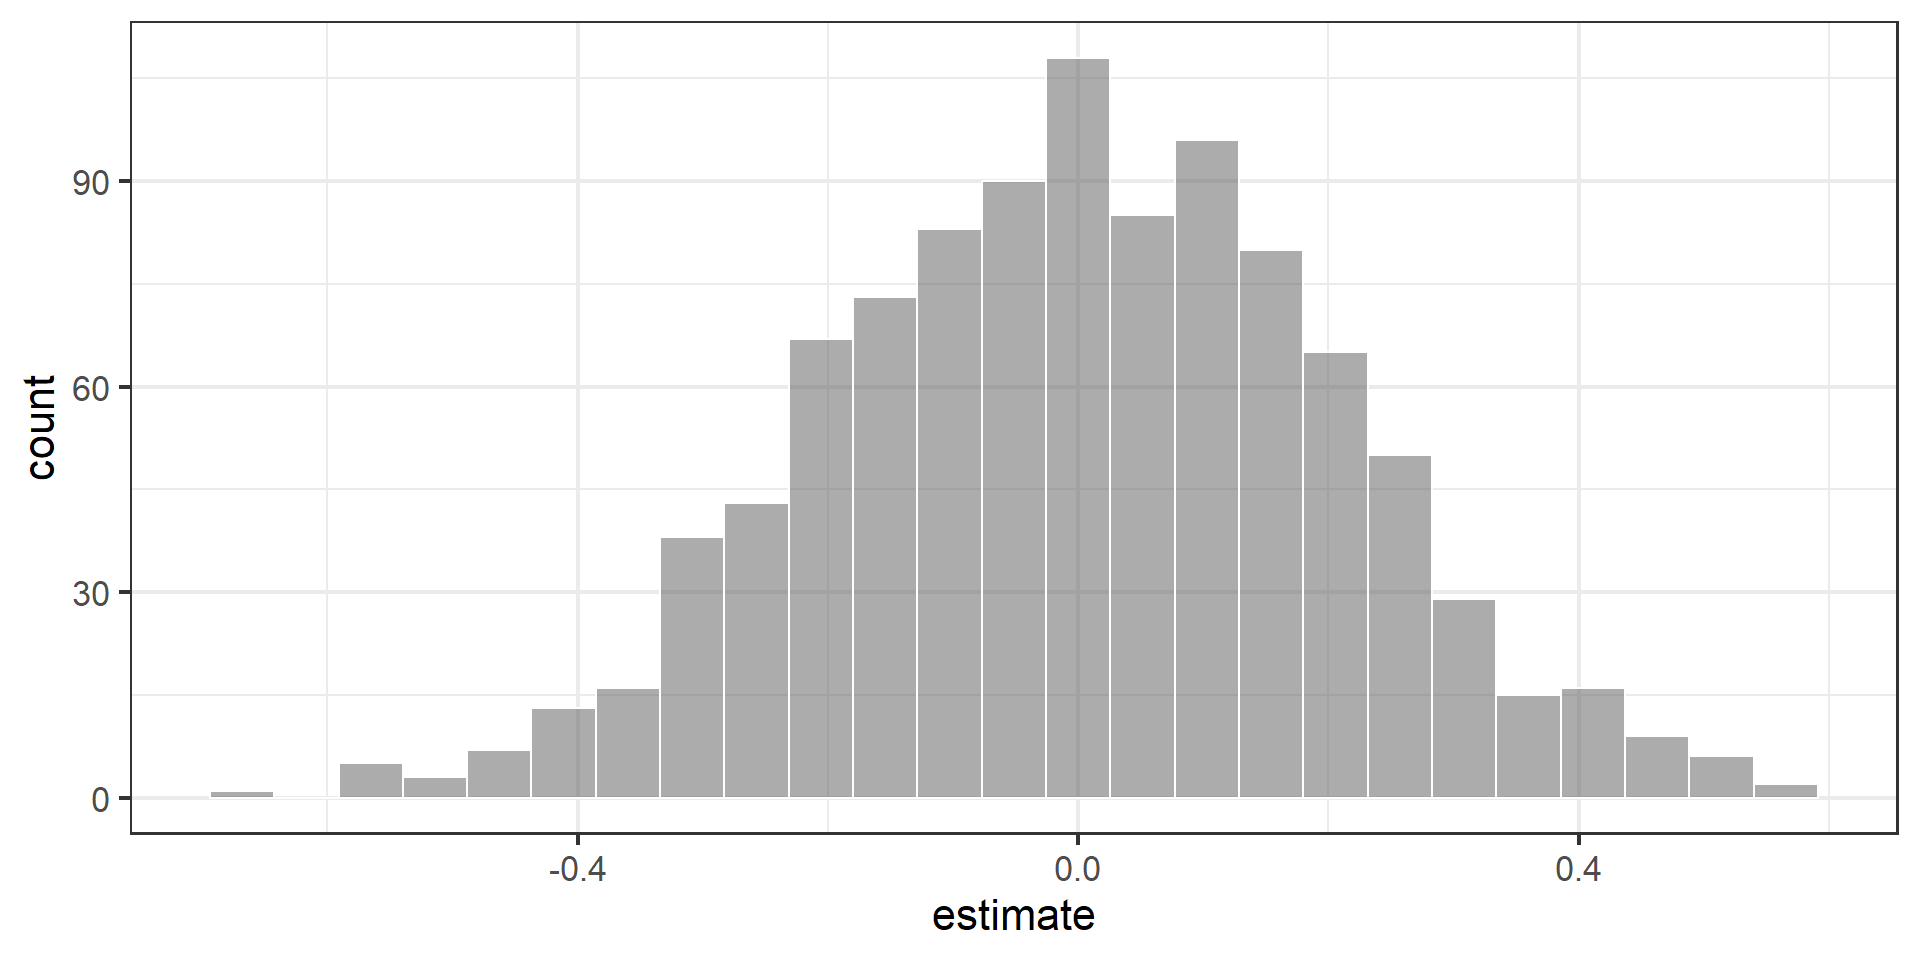
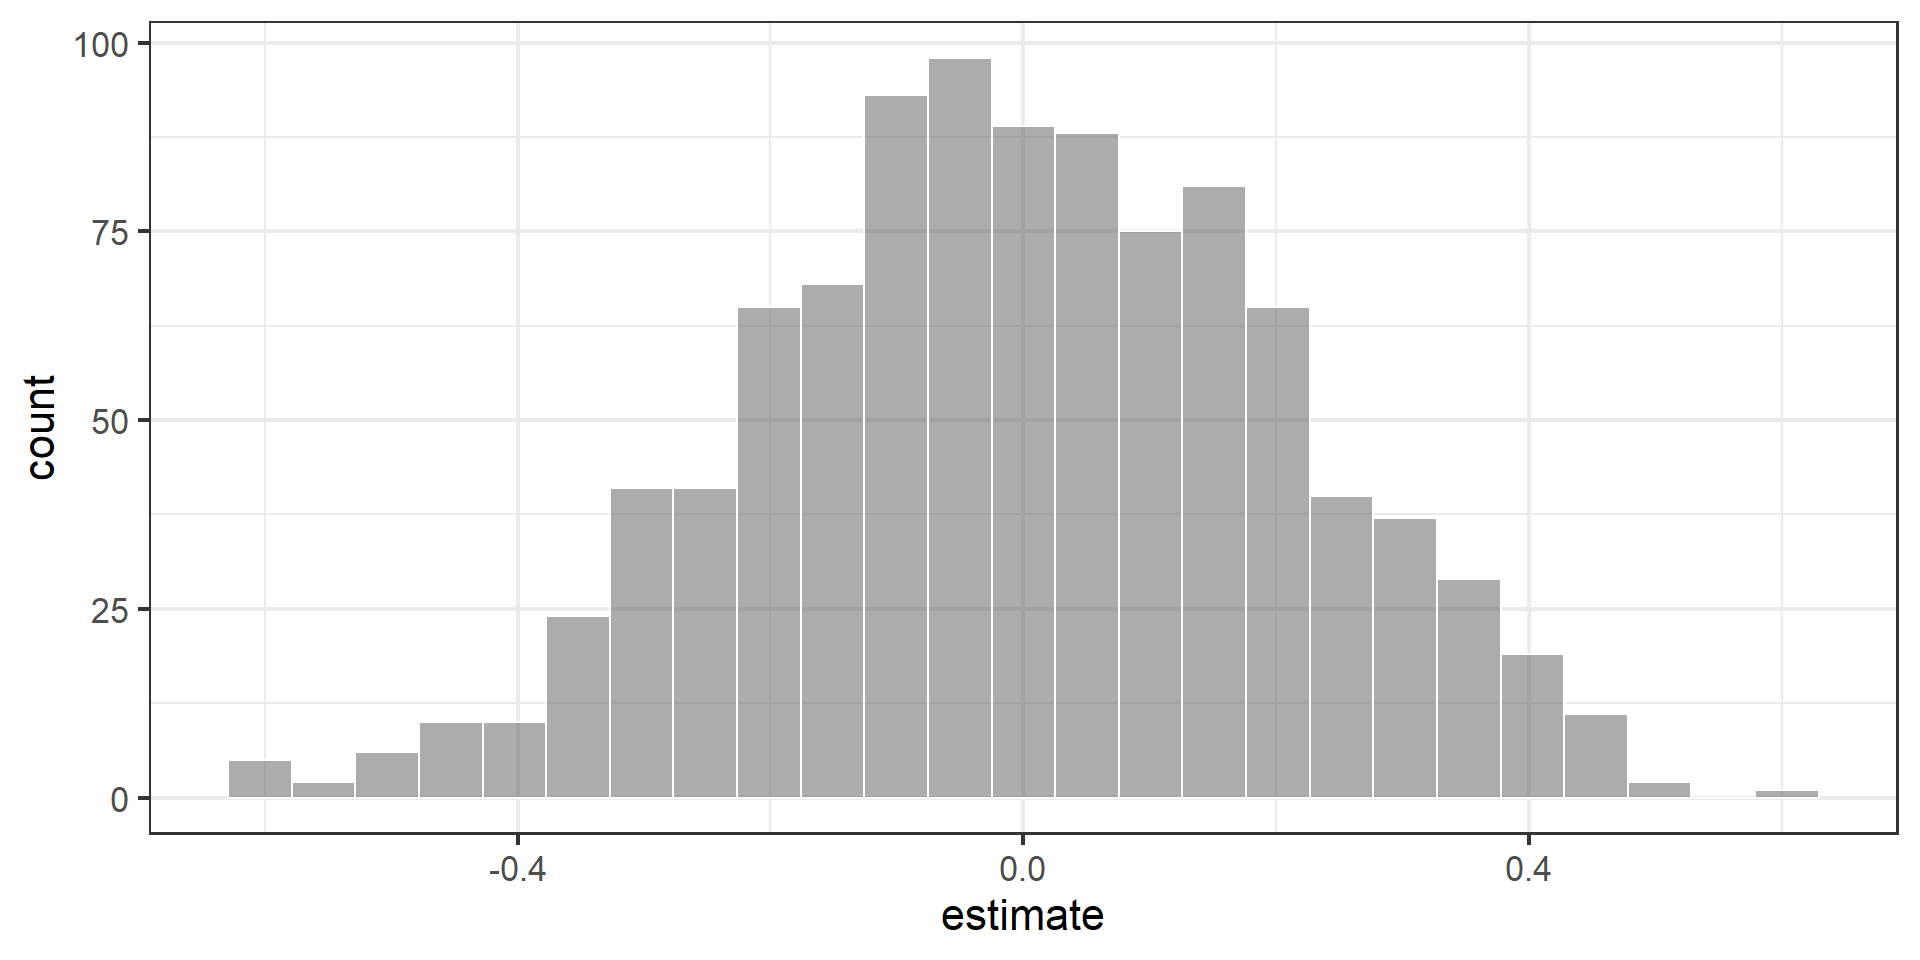
Fixed error

diff --git a/_site/slides/07-slr-sim-testing.html b/_site/slides/07-slr-sim-testing.html
@@ -809,7 +809,7 @@ H_A: \beta_1 \ne 0
 <section id="concluding-the-hypothesis-test" class="slide level2 smaller">
 <h2>Concluding the hypothesis test</h2>
 <div class="question">
-<p>Is the observed slope of <span class="math inline">\(\hat{\beta_1} = 159\)</span> (or an even more extreme slope) a likely outcome under the null hypothesis that <span class="math inline">\(\beta = 0\)</span>? What does this mean for our original question: “Do the data provide sufficient evidence that <span class="math inline">\(\beta_1\)</span> (the true slope for the population) is different from 0?”</p>
+<p>Is the observed slope of <span class="math inline">\(\hat{\beta_1} = 0.96\)</span> (or an even more extreme slope) a likely outcome under the null hypothesis that <span class="math inline">\(\beta = 0\)</span>? What does this mean for our original question: “Do the data provide sufficient evidence that <span class="math inline">\(\beta_1\)</span> (the true slope for the population) is different from 0?”</p>
 </div>
 
 <img data-src="07-slr-sim-testing_files/figure-revealjs/unnamed-chunk-15-1.png" style="width:60.0%" class="r-stretch"></section>
@@ -934,11 +934,13 @@ Null Hypothesis: independence
 <div class="cell">
 <div class="sourceCode cell-code" id="cb24" data-code-line-numbers="|3"><pre class="sourceCode numberSource r number-lines code-with-copy"><code class="sourceCode r"><span id="cb24-1"><a></a><span class="fu">set.seed</span>(<span class="dv">1218</span>)</span>
 <span id="cb24-2"><a></a></span>
-<span id="cb24-3"><a></a>heb <span class="sc">|&gt;</span></span>
+<span id="cb24-3"><a></a>null_dist <span class="ot">&lt;-</span> heb <span class="sc">|&gt;</span></span>
 <span id="cb24-4"><a></a>  <span class="fu">specify</span>(Number_Organic <span class="sc">~</span> Avg_Income_K) <span class="sc">|&gt;</span></span>
 <span id="cb24-5"><a></a>  <span class="fu">hypothesize</span>(<span class="at">null =</span> <span class="st">"independence"</span>) <span class="sc">|&gt;</span></span>
 <span id="cb24-6"><a></a>  <span class="fu">generate</span>(<span class="at">reps =</span> <span class="dv">1000</span>, <span class="at">type =</span> <span class="st">"permute"</span>) <span class="sc">|&gt;</span></span>
-<span id="cb24-7"><a></a>  <span class="fu">fit</span>()</span></code><button title="Copy to Clipboard" class="code-copy-button"><i class="bi"></i></button></pre></div>
+<span id="cb24-7"><a></a>  <span class="fu">fit</span>()</span>
+<span id="cb24-8"><a></a></span>
+<span id="cb24-9"><a></a>null_dist</span></code><button title="Copy to Clipboard" class="code-copy-button"><i class="bi"></i></button></pre></div>
 <div class="cell-output cell-output-stdout">
 <pre><code># A tibble: 2,000 × 3
 # Groups:   replicate [1,000]
